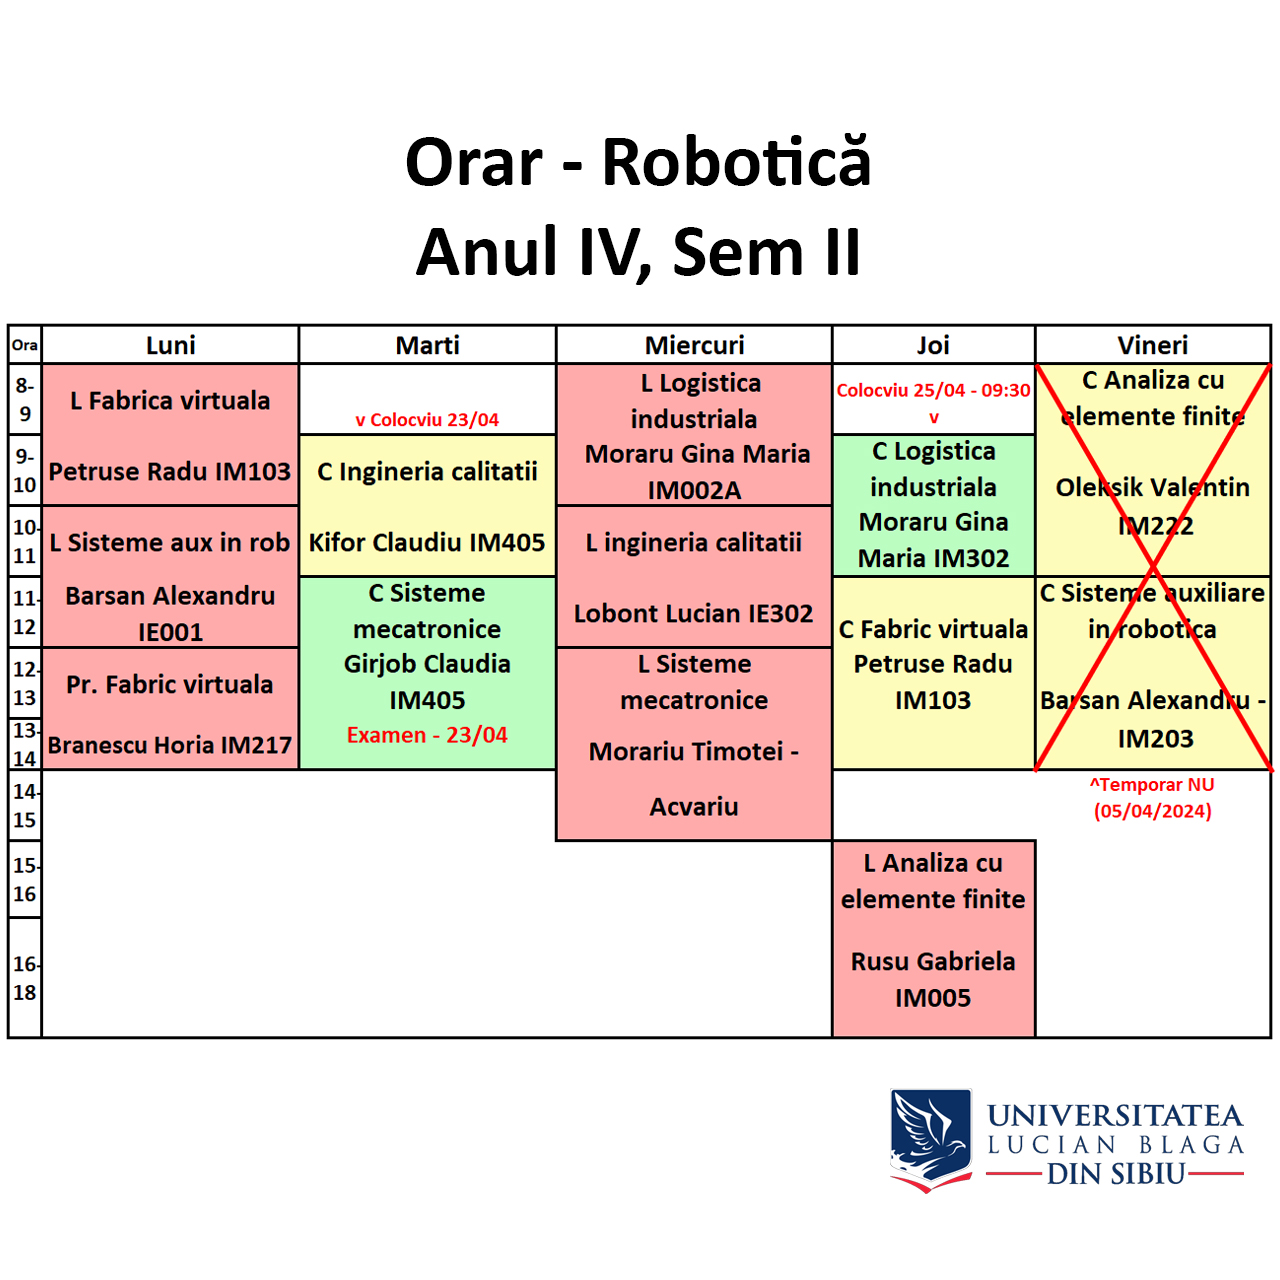
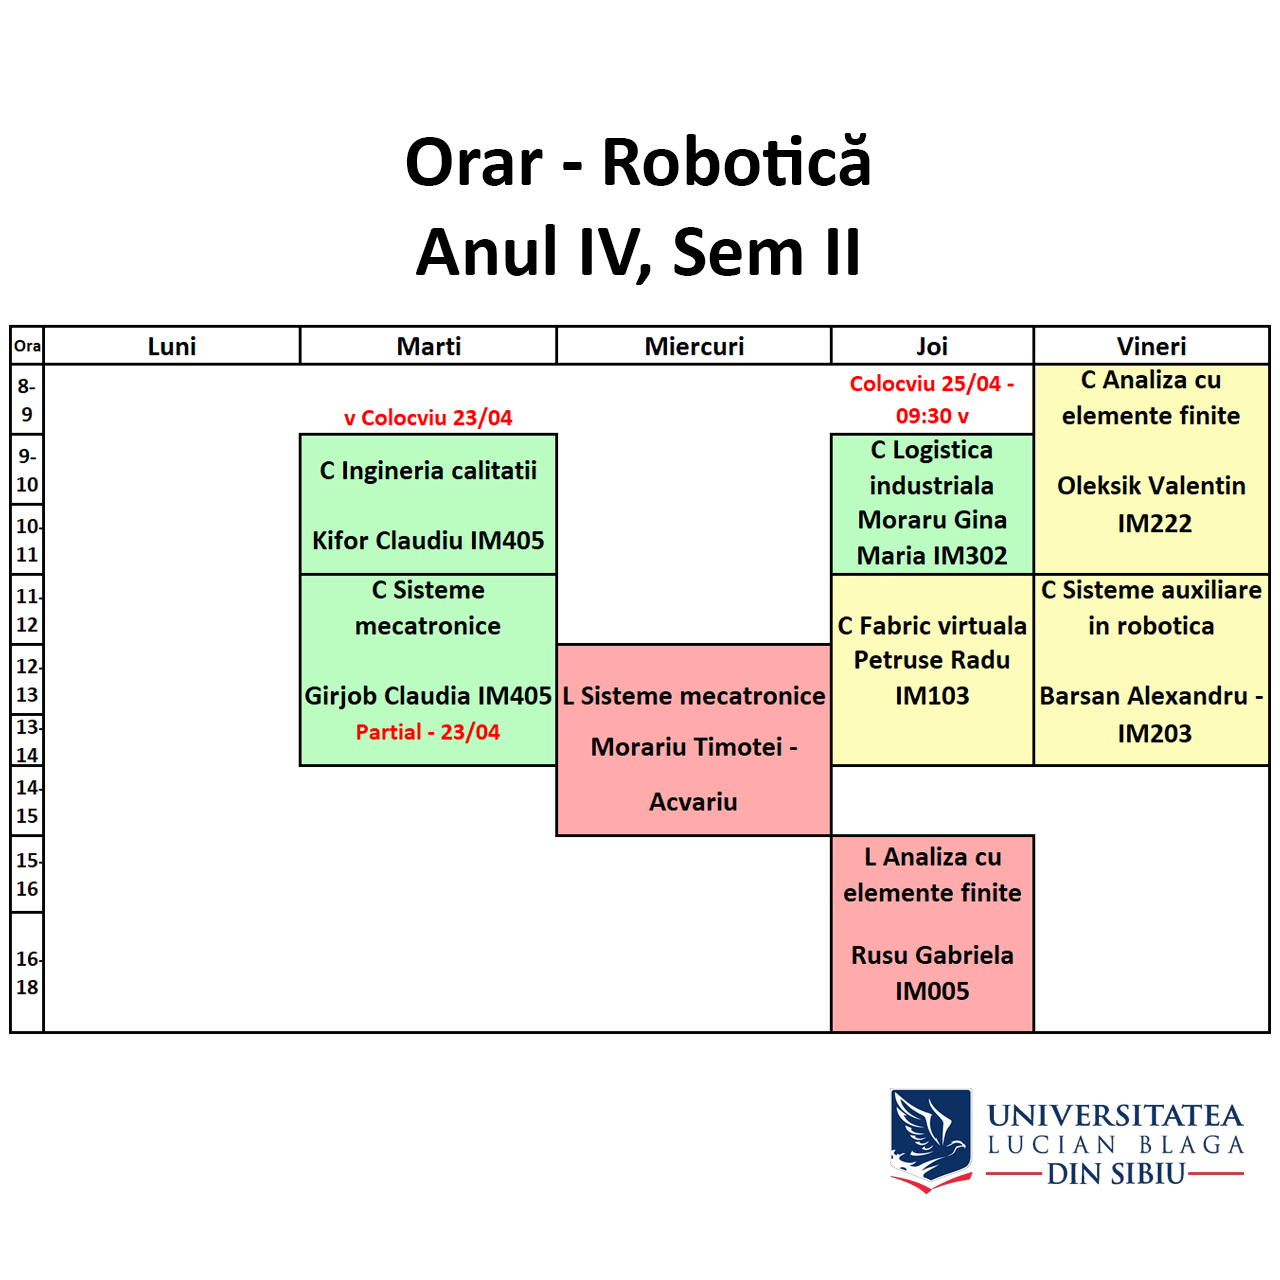
Updated_many_stuff

Changed region(s): [[0.0, 0.25, 1.0, 0.8125], [0.2812, 0.25, 0.375, 0.2812]]

diff --git a/todo.html b/todo.html
@@ -22,7 +22,7 @@
       <li><a href="index.html">Acasă</a></li>
       <li><a href="schedule.html">Orar</a></li>
       <li><a href="year.html">StructurăAn</a></li>
-      <li class="disabled"><a href="todo.html">CalendarExamene</a></li>
+      <li><a href="todo.html">CalendarExamene</a></li>
       <li><a href="creditcalc.html">CalculatorMedie</a></li>
       <li>
         <a href="https://ums.ulbsibiu.ro/ums/do/secure/inregistrare_user" target="_blank">UMS</a>
@@ -39,28 +39,34 @@
   </div>
   <div class="content">
     <div class="todo">
-      <h1 class="title">Calendar restante - an 4 sem 1</h1>
+      <h1 class="title">Calendar examene - an 4 sem 2</h1>
       <hr />
       <p>
-        &#x2022; <del>Proiectare asistata de calc - 20/02 - 10:00</del>
+        &#x2022; Sisteme mecatronice - 23/04 - 09:00
       </p>
       <p>
-        &#x2022; <del>Sisteme de conducere in robotica - 20/02 - 10:00</del>
+        &#x2022; Ingineria calitatii - 23/04 - 11:00
       </p>
       <p>
-        &#x2022; <del>Sisteme flexibile de fabricatie - 20/02 - 10:00</del>
+        &#x2022; Logistica industriala - 25/04 - 09:30
       </p>
       <p>
-        &#x2022; Tehnologii de fabricatie - 21/02 - 10:00
+        &#x2022; Elaborare proiect diploma - 29/04 - 10:00
       </p>
       <p>
-        &#x2022; Fiabilitate si diagnoza - 22/02 - 10:00
+        &#x2022; Practica pentru proiect diploma - 29/04 - 10:00
       </p>
       <p>
-        &#x2022; Automate programabile - 22/02 - 08:00
+        &#x2022; Sisteme mecatronice - 14/05 - 10:00
       </p>
       <p>
-        &#x2022; Comanda si programarea CNC - 22/02 - 08:00
+        &#x2022; ANSYSYSYSYSYSYS - 17/05 - 10:00
+      </p>
+      <p>
+        &#x2022; Fabricatie virtuala - 22/05 - 09:00
+      </p>
+      <p>
+        &#x2022; Sisteme auxiliare in robotica - 27/05 - 10:00
       </p>
       <hr /> 
     </div>

diff --git a/creditcalc.html b/creditcalc.html
@@ -23,7 +23,7 @@
       <li><a href="index.html">Acasă</a></li>
       <li><a href="schedule.html">Orar</a></li>
       <li><a href="year.html">StructurăAn</a></li>
-      <li class="disabled"><a href="todo.html">CalendarExamene</a></li>
+      <li><a href="todo.html">CalendarExamene</a></li>
       <li><a href="creditcalc.html">CalculatorMedie</a></li>
       <li>
         <a href="https://ums.ulbsibiu.ro/ums/do/secure/inregistrare_user" target="_blank">UMS</a>

diff --git a/index.html b/index.html
@@ -23,7 +23,7 @@
       <li><a href="index.html">Acasă</a></li>
       <li><a href="schedule.html">Orar</a></li>
       <li><a href="year.html">StructurăAn</a></li>
-      <li class="disabled"><a href="todo.html">CalendarExamene</a></li>
+      <li><a href="todo.html">CalendarExamene</a></li>
       <li><a href="creditcalc.html">CalculatorMedie</a></li>
       <li>
         <a href="https://ums.ulbsibiu.ro/ums/do/secure/inregistrare_user" target="_blank">UMS</a>

diff --git a/schedule.html b/schedule.html
@@ -22,7 +22,7 @@
       <li><a href="index.html">Acasă</a></li>
       <li><a href="schedule.html">Orar</a></li>
       <li><a href="year.html">StructurăAn</a></li>
-      <li class="disabled"><a href="todo.html">CalendarExamene</a></li>
+      <li><a href="todo.html">CalendarExamene</a></li>
       <li><a href="creditcalc.html">CalculatorMedie</a></li>
       <li>
         <a href="https://ums.ulbsibiu.ro/ums/do/secure/inregistrare_user" target="_blank">UMS</a>

diff --git a/year.html b/year.html
@@ -22,7 +22,7 @@
       <li><a href="index.html">Acasă</a></li>
       <li><a href="schedule.html">Orar</a></li>
       <li><a href="year.html">StructurăAn</a></li>
-      <li class="disabled"><a href="todo.html">CalendarExamene</a></li>
+      <li><a href="todo.html">CalendarExamene</a></li>
       <li><a href="creditcalc.html">CalculatorMedie</a></li>
       <li>
         <a href="https://ums.ulbsibiu.ro/ums/do/secure/inregistrare_user" target="_blank">UMS</a>
